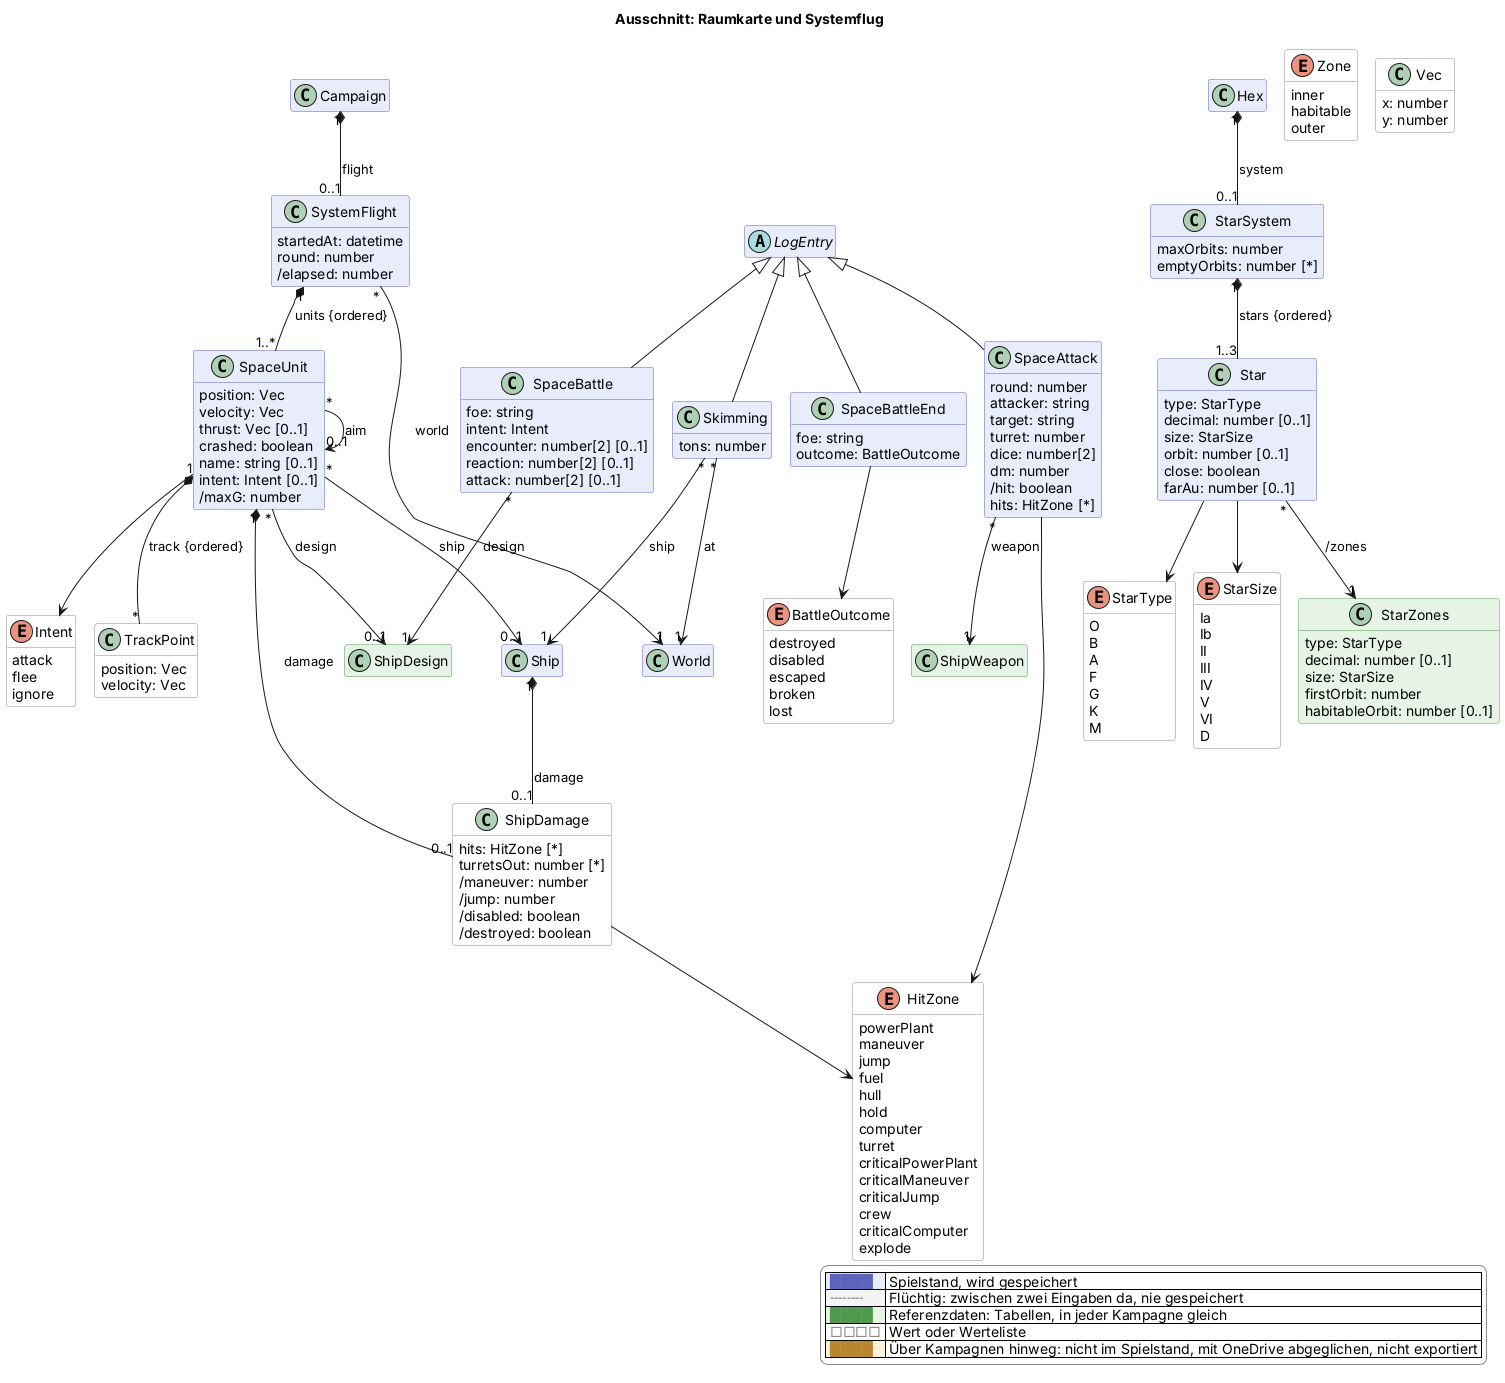
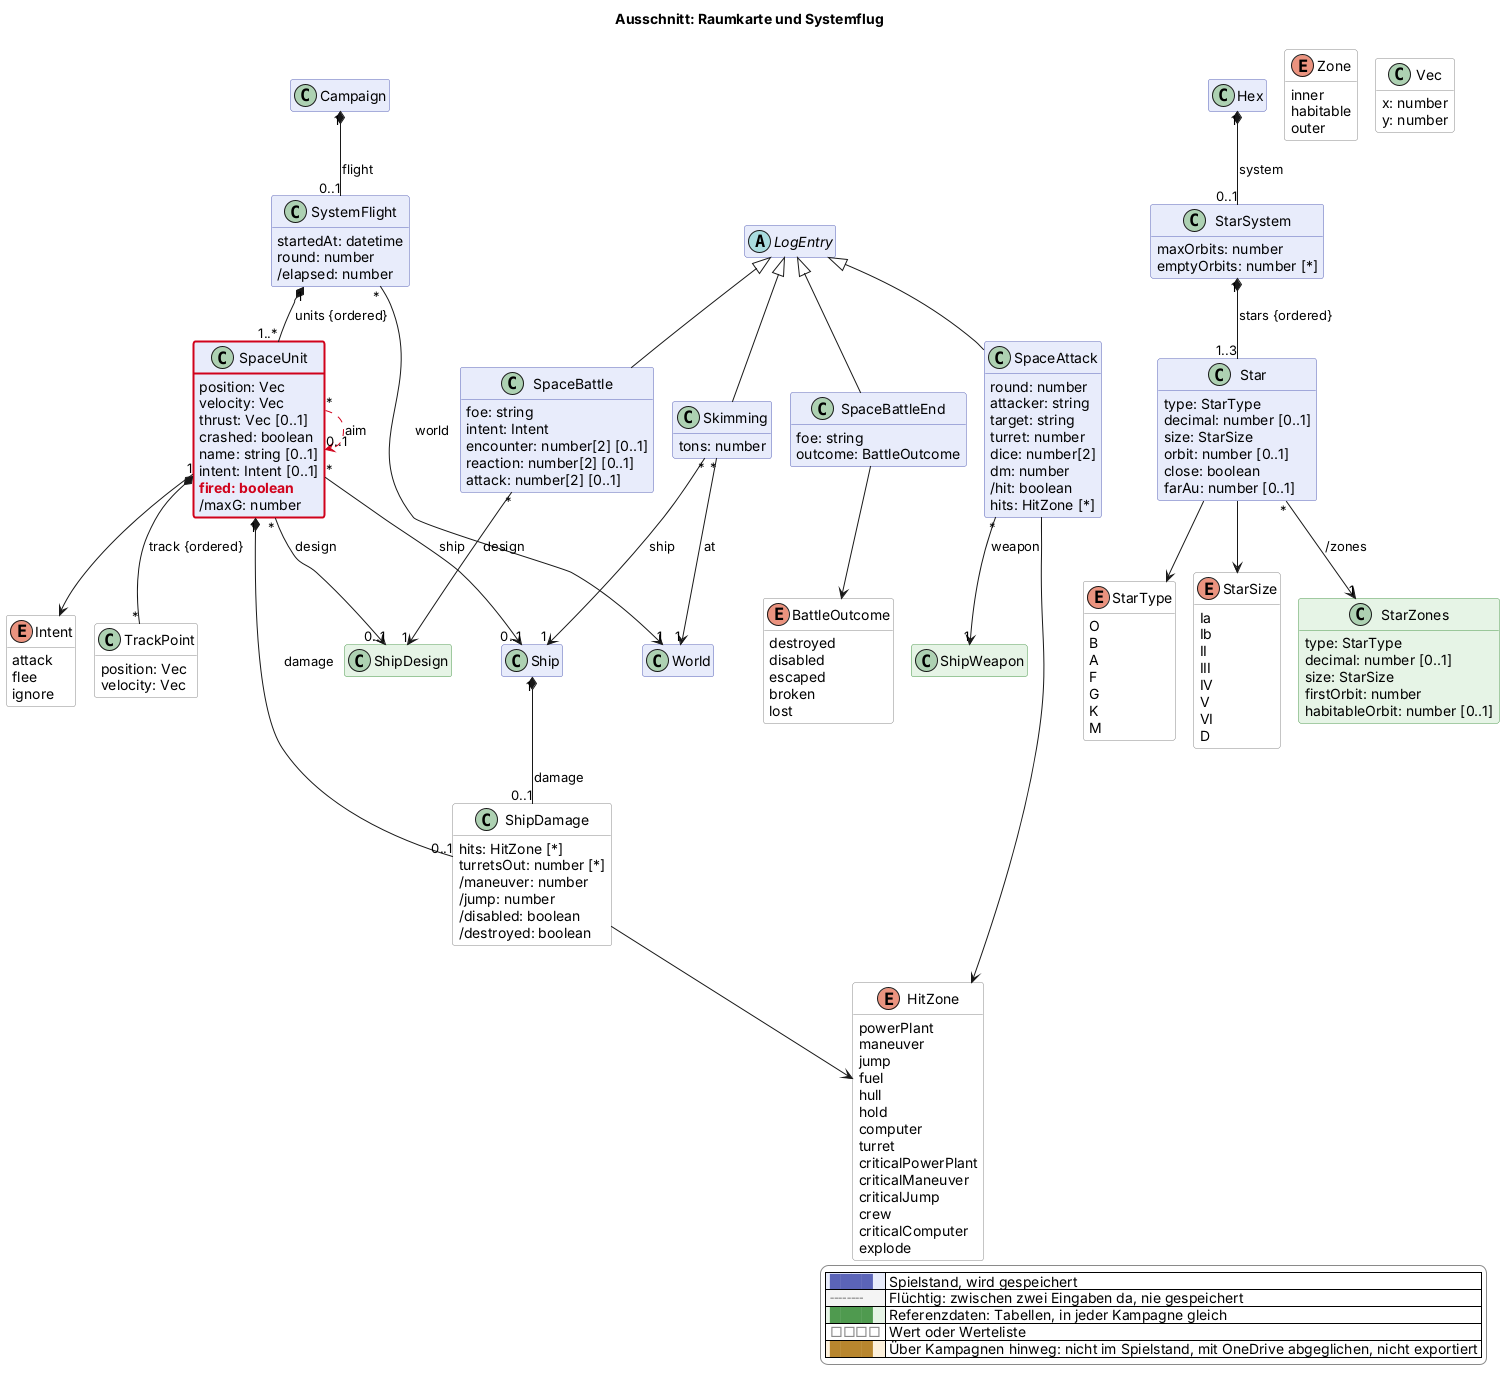
Domänenmodell: Feuer auslösen statt vormerken (2026-11-21e, wartet auf Freigabe)
Claude-Session: https://claude.ai/code/session_016ZF27uncgGm2vEWUu5aAuu

Changed region(s): [[0.1249, 0.2176, 0.2186, 0.4042]]

diff --git a/docs/domain-model.md b/docs/domain-model.md
@@ -518,6 +518,12 @@ Lücken unter [Wo der Code noch nicht folgt](#wo-der-code-noch-nicht-folgt).
 > `damage` und `aim` (`ship` wird optional), `Ship.damage` und die Schiffskosten `repair`. Der
 > Ausschnitt dazu liegt unter
 > [`changes/2026-11-21d-raumkampf-gegner-laser.png`](changes/2026-11-21d-raumkampf-gegner-laser.png).
+>
+> **Wartet auf Freigabe** (Kennzeichen 2026-11-21e): **Feuer auslösen statt vormerken** (Owner,
+> 21. November 2026). Jede Einheit feuert einmal je Raumrunde nach der Bewegung; das eigene Schiff,
+> wenn man „Feuer auf …“ tippt, mit Würfelanimation. Neu im Bild: `SpaceUnit.fired`; `aim` entfällt.
+> Der Ausschnitt dazu liegt unter
+> [`changes/2026-11-21e-feuer-ausloesen.png`](changes/2026-11-21e-feuer-ausloesen.png).
 
 ![Domänenmodell der Solo RPG Engine](domain-model.png)
 
@@ -860,7 +866,7 @@ Vacc Suit, Jack-of-all-Trades, …), Terms, Cr.
 | Raumkampf | `SpaceBattle`, `SpaceAttack`, `SpaceBattleEnd` | Ein Systemflug mit einem fremden Schiff, das nicht nur zuschaut: Laserfeuer je Raumrunde bis zum Ende des Raumkampfs (2026-11-21d) |
 | Fremdes Schiff | `SpaceUnit.design`, `SpaceUnit.name` | Eine Einheit des Systemflugs ohne `ship`: ein Standardentwurf mit Namen und eigenem Schaden, gesteuert von der App (2026-11-21d) |
 | Absicht | `SpaceUnit.intent`, `Intent` | Was ein fremdes Schiff will: angreifen, fliehen oder nichts (ignorieren); danach wählt die App seinen Schub (2026-11-21d) |
-| Ziel | `SpaceUnit.aim` | Auf welche Einheit die Laser einer Einheit in dieser Raumrunde feuern; wie der Schub jede Runde neu (2026-11-21d) |
+| Gefeuert | `SpaceUnit.fired` | Die Einheit hat in dieser Raumrunde schon gefeuert; „Runde ausführen“ setzt es zurück (2026-11-21e, ersetzt das Ziel `aim`) |
 | Schaden am Schiff | `ShipDamage`, `Ship.damage`, `SpaceUnit.damage` | Die Treffer eines Schiffs in der Reihenfolge, in der sie kamen, und die ausgefallenen Turrets; am eigenen Schiff bleibt er bis zur Reparatur (2026-11-21d) |
 | Trefferzone | `HitZone` | Wohin ein Treffer geht (SE 12, *Hit Locations* und *Critical Hits*) (2026-11-21d) |
 | Ausgang | `SpaceBattleEnd.outcome`, `BattleOutcome` | Wie ein Raumkampf endete: zerstört, kampfunfähig, entkommen, abgebrochen, verloren (2026-11-21d) |
@@ -3257,19 +3263,28 @@ Vacc Suit, Jack-of-all-Trades, …), Terms, Cr.
     *Ignorieren* gibt keinen Schub. Aufschläge sind verboten. Ohne Zufall: gleicher Stand, gleicher
     Schub. Fremde Schiffe landen nicht und schöpfen nicht; trifft eines eine Oberfläche, ist es ein
     Aufschlag.
-  - **Ziel** (`aim`): Für das eigene Schiff wählt man im Blatt „Feuer auf …“; es gilt wie der Schub
-    nur für die laufende Raumrunde. Ein angreifendes fremdes Schiff zielt immer auf das eigene.
-  - **Laserfeuer** (nach der Bewegung, an den Orten am Ende der Raumrunde, beide Seiten gleichzeitig,
-    Schaden erst nach allen Würfen). Jeder Laser jedes Turrets, das nicht ausgefallen ist, würfelt
+  - **Feuer auslösen** (geändert 2026-11-21e, wartet auf Freigabe; Owner, 21. November 2026: „Angreifen
+    sollte mit Würfelanimation explizit getriggert werden, nicht für die nächste Runde vorgemerkt“;
+    vorher setzte man mit `aim` ein Ziel, und gefeuert wurde beim Ausführen der Raumrunde). Jede
+    Einheit feuert höchstens einmal je Raumrunde (`fired`), an den Orten nach der Bewegung; „Runde
+    ausführen“ bewegt alle und setzt `fired` zurück. Danach:
+    - Ein **angreifendes fremdes Schiff** feuert gleich nach der Bewegung auf das eigene Schiff.
+    - Das **eigene Schiff** feuert, wenn man im Blatt **„Feuer auf …“** tippt: sofort, die Würfe
+      rollen im Vordergrund (Schütze, Ziel, Waffe, 2W6 + DM, Treffer und Trefferzonen), der Schaden
+      wirkt gleich. Danach steht der Knopf erst in der nächsten Raumrunde wieder bereit. Man kann
+      auch ohne Bewegung in der ersten Raumrunde feuern.
+    - **Rückfeuer** (SR 40): Ein fremdes Schiff, auf das gefeuert wird und das in dieser Raumrunde
+      noch nicht gefeuert hat, feuert gleich zurück, wenn es noch kann. ⚑ Greift es nicht an, greift
+      es ab dann an, wenn es Laser hat, sonst flieht es. Das eigene Schiff erwidert Feuer, indem man
+      selbst „Feuer auf …“ tippt.
+  - **Laserfeuer**. Jeder Laser jedes Turrets, das nicht ausgefallen ist, würfelt
     einzeln 2W6 + DM, **8+** trifft (SR 40). DM: Pulse Laser −1; Entfernung über 25 Raumbänder −2,
     über 50 −5 (Raumband = Entfernung ÷ 10.000 km, aufgerundet); ⚑ je Computer-Treffer −1. Kein
     Schuss ohne freie Sichtlinie (ein Körper dazwischen) und ⚑ über 90 Raumbänder (Tracking). ⚑ Die
     Programme (Target, Predict, Gunner Interact, Maneuver/Evade, Return Fire) prüft und zählt Stufe 2
     noch nicht, und es gibt noch keine Schiffspositionen (Gunner, Pilot). Missile Racks und
-    Sandcaster feuern noch nicht (Stufe 3).
-  - **Rückfeuer** (SR 40): Wer in dieser Raumrunde beschossen wurde und selbst kein Ziel hatte,
-    feuert danach auf die, die auf ihn gefeuert haben, nach denselben Regeln. ⚑ Ein fremdes Schiff,
-    das beschossen wird und nicht angreift, greift ab dann an, wenn es Laser hat, sonst flieht es.
+    Sandcaster feuern noch nicht (Stufe 3). Der Schaden einer Salve wirkt erst nach allen ihren
+    Würfen.
   - **Treffer**: Ein Beam Laser macht einen Schadenswurf, ein Pulse Laser zwei; jeder ist 2W6 auf die
     Trefferzone für Starships (SE 12), bei 12 ein kritischer Treffer mit 1W6. Jeder Schuss ist ein
     Logeintrag `SpaceAttack` mit Raumrunde, Schütze, Ziel, Turret, Waffe, Würfeln, DM und den
@@ -3517,8 +3532,7 @@ Diagramm mit diesen Ausnahmen:
     Werte beim Öffnen der Kampagne mit Würfen aus Schlüssel und Feld; bis dahin lässt die Prüfung
     Nebenwelten ohne Raumhafen zu, aber nur alle zusammen.
 - **Raumkampf, Stufe 2** (2026-11-21d) ist gebaut (`model/space-combat.ts`), auf Wunsch des Owners
-  schon vor der Freigabe des Bilds. Abweichungen: **`SpaceUnit → SpaceUnit : aim`** ist im Code die
-  Stelle der Zieleinheit in `units`, wie andere Verweise auf Stellen. Die erste Einheit ist immer
+  schon vor der Freigabe des Bilds. Abweichungen: Die erste Einheit ist immer
   das eigene Schiff. Ein fremdes Schiff bekommt beim Auftauchen eine Spur so lang wie die Raumrunden
   (lauter Punkte an seinem Startort), damit sie zur Raumrunde passt.
 - **Bewaffnung** (2026-11-21c) ist gebaut (`model/armament.ts`, Referenzdaten in
